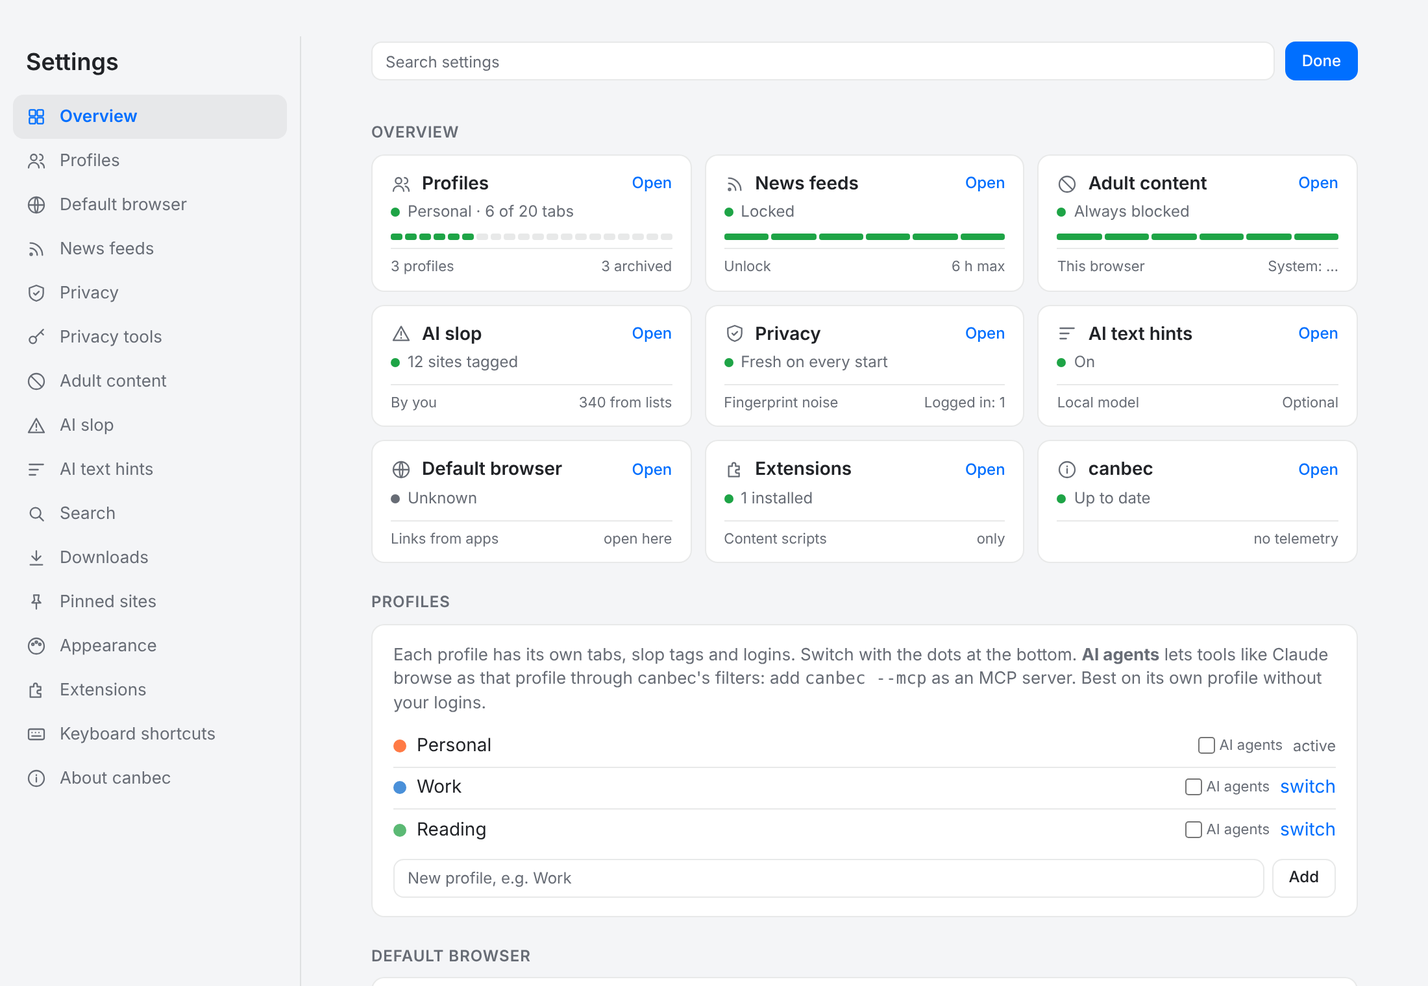
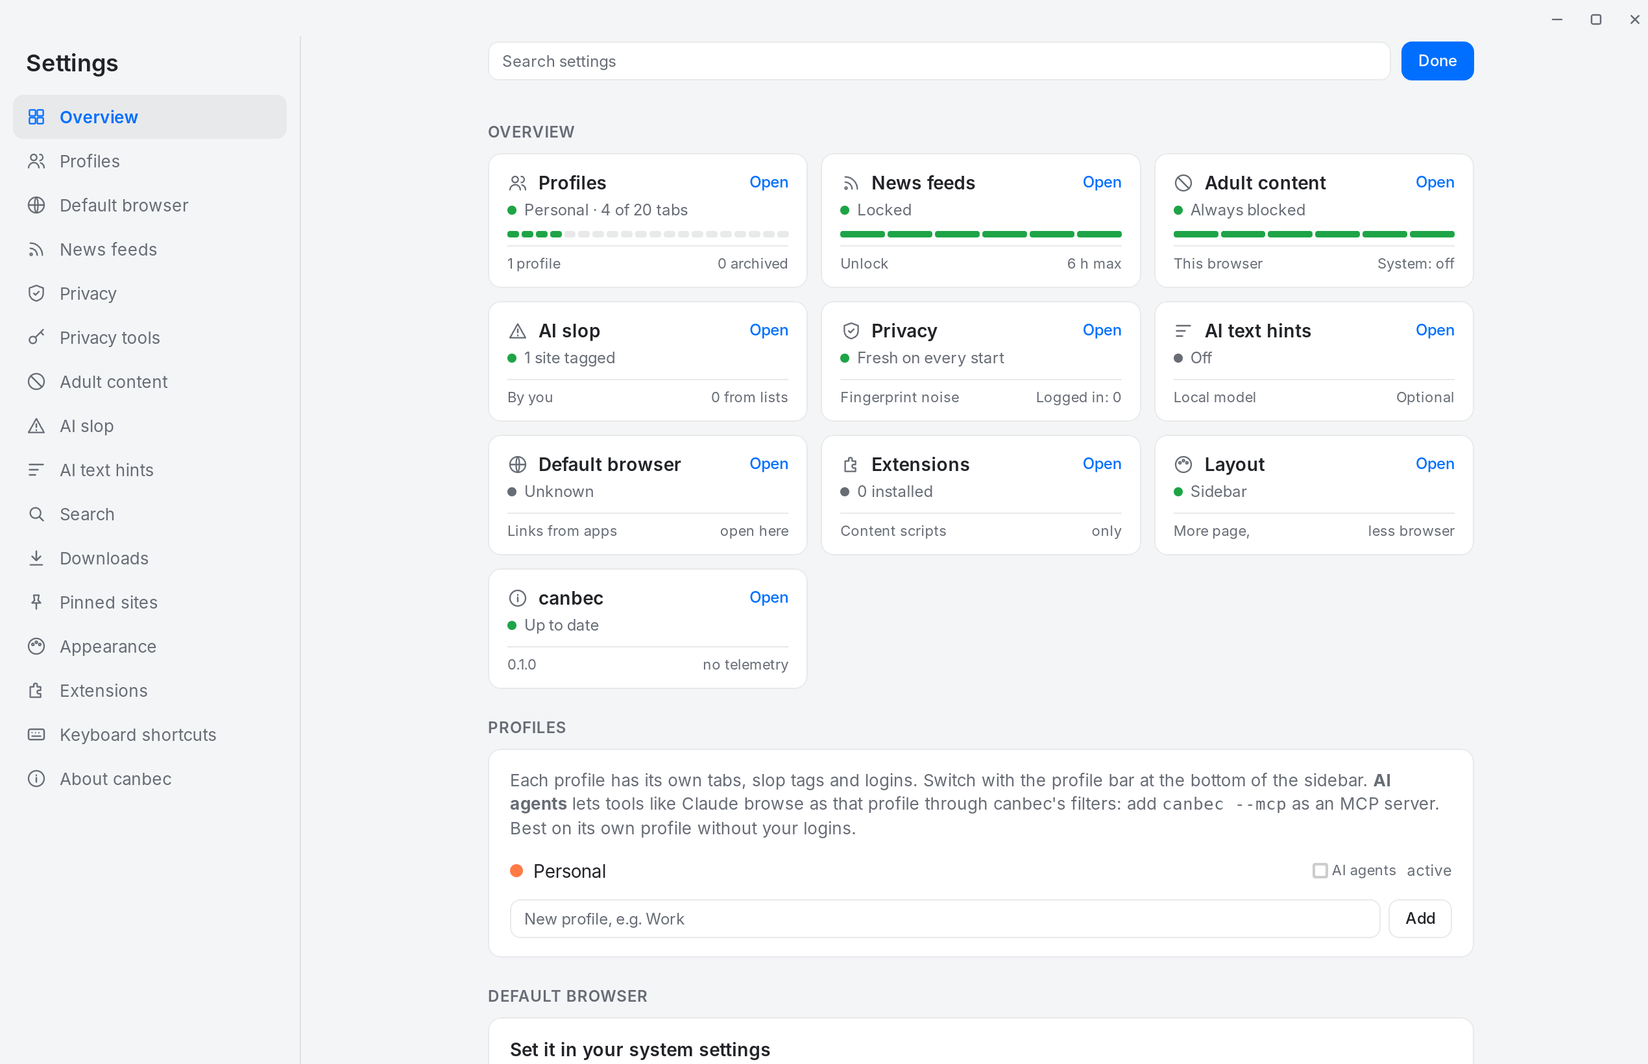
docs: screenshots of the current UI; slop frame in the new red; settings fix in Compact/Rail
- New screenshots from the real app (Linux, 2x) on fictional demo sites:
  browsing, AI slop frame, settings overview, Appearance (layouts + icons),
  the four layouts, dark mode. README and docs index use them.
- test/fixtures/demo + tools/demo_server.py to retake them.
- The slop frame, banner and search badges in pages use the new red and
  greys instead of the old orange and cream.
- Fix: in the Compact and Rail layouts the settings page was squeezed to the
  sidebar's width; those layout rules now apply only outside settings.

Claude-Session: https://claude.ai/code/session_0127fYf2fGiif658MHn2DTb1

diff --git a/src/ui/sidebar.html b/src/ui/sidebar.html
@@ -172,32 +172,32 @@ body.l-top.peek:not(.settings) #drop{display:block;position:fixed;top:48px;left:
 body.l-top:not(.settings) #more{display:inline-flex}
 body.l-top.peek #more{color:var(--acc);background:var(--hov)}body.l-top.peek #more svg{transform:rotate(180deg)}
 /* Compact: same sidebar, 240 px. */
-body.l-compact{width:240px}
-body.l-compact #ess{grid-template-columns:repeat(3,1fr)}
-body.l-compact .wd span{display:none}
-body.l-compact .wd{flex:0 0 28px;padding:0}
-body.l-compact .stat{padding:0 4px}
+body.l-compact:not(.settings){width:240px}
+body.l-compact:not(.settings) #ess{grid-template-columns:repeat(3,1fr)}
+body.l-compact:not(.settings) .wd span{display:none}
+body.l-compact:not(.settings) .wd{flex:0 0 28px;padding:0}
+body.l-compact:not(.settings) .stat{padding:0 4px}
 /* Rail: 64 px of icons. Search / Cmd+L / Cmd+F "peek" back to the full sidebar. */
-body.l-rail:not(.peek){width:64px}
-body.l-rail:not(.peek) #nav{flex-direction:column;align-items:center;padding:0 0 8px;gap:2px}
-body.l-rail:not(.peek) #nav .sp{display:none}
-body.l-rail:not(.peek) #srch{display:inline-flex}
-body.l-rail:not(.peek) :is(#chips,#bar,#findbar,#site,#tabhead,#meter,#hint,#arch,#clo){display:none}
-body.l-rail:not(.peek) #ess{grid-template-columns:1fr;padding:0 12px 8px;gap:6px}
-body.l-rail:not(.peek) .ess{height:40px;padding:0}
-body.l-rail:not(.peek) .ess span{display:none}
-body.l-rail:not(.peek) #main{padding:4px 10px;border-top:1px solid var(--line)}
-body.l-rail:not(.peek) .tab{justify-content:center;padding:0;height:40px}
-body.l-rail:not(.peek) .tab .dot{width:26px;height:26px;font-size:12px;border-radius:7px}
-body.l-rail:not(.peek) .tab .t{position:absolute;inset:0;font-size:0;color:transparent}
-body.l-rail:not(.peek) .tab :is(.x,.warn){display:none}
-body.l-rail:not(.peek) .row{justify-content:center;padding:0}
-body.l-rail:not(.peek) .row span{display:none}
-body.l-rail:not(.peek) #foot{flex-direction:column;padding:8px 0 10px}
-body.l-rail:not(.peek) #wsd{flex-direction:column;flex:none;width:36px}
-body.l-rail:not(.peek) .wd{flex:none;height:26px;padding:0}
-body.l-rail:not(.peek) .wd span{display:none}
-body.l-rail:not(.peek) #top.winctl{flex-direction:column;align-items:center;height:auto;padding:4px 0}
+body.l-rail:not(.peek):not(.settings){width:64px}
+body.l-rail:not(.peek):not(.settings) #nav{flex-direction:column;align-items:center;padding:0 0 8px;gap:2px}
+body.l-rail:not(.peek):not(.settings) #nav .sp{display:none}
+body.l-rail:not(.peek):not(.settings) #srch{display:inline-flex}
+body.l-rail:not(.peek):not(.settings) :is(#chips,#bar,#findbar,#site,#tabhead,#meter,#hint,#arch,#clo){display:none}
+body.l-rail:not(.peek):not(.settings) #ess{grid-template-columns:1fr;padding:0 12px 8px;gap:6px}
+body.l-rail:not(.peek):not(.settings) .ess{height:40px;padding:0}
+body.l-rail:not(.peek):not(.settings) .ess span{display:none}
+body.l-rail:not(.peek):not(.settings) #main{padding:4px 10px;border-top:1px solid var(--line)}
+body.l-rail:not(.peek):not(.settings) .tab{justify-content:center;padding:0;height:40px}
+body.l-rail:not(.peek):not(.settings) .tab .dot{width:26px;height:26px;font-size:12px;border-radius:7px}
+body.l-rail:not(.peek):not(.settings) .tab .t{position:absolute;inset:0;font-size:0;color:transparent}
+body.l-rail:not(.peek):not(.settings) .tab :is(.x,.warn){display:none}
+body.l-rail:not(.peek):not(.settings) .row{justify-content:center;padding:0}
+body.l-rail:not(.peek):not(.settings) .row span{display:none}
+body.l-rail:not(.peek):not(.settings) #foot{flex-direction:column;padding:8px 0 10px}
+body.l-rail:not(.peek):not(.settings) #wsd{flex-direction:column;flex:none;width:36px}
+body.l-rail:not(.peek):not(.settings) .wd{flex:none;height:26px;padding:0}
+body.l-rail:not(.peek):not(.settings) .wd span{display:none}
+body.l-rail:not(.peek):not(.settings) #top.winctl{flex-direction:column;align-items:center;height:auto;padding:4px 0}
 /* Top bar: one 48 px strip; the website card starts under it and gets the full width. */
 body.l-top:not(.settings){width:100%;height:48px;flex-direction:row;align-items:center;gap:6px;padding:0 8px}
 body.l-top:not(.settings) #top{position:absolute;inset:0 0 auto 0;height:48px;z-index:0;padding-top:0;align-items:center}

diff --git a/test/fixtures/demo/journal.html b/test/fixtures/demo/journal.html
@@ -1,0 +1,28 @@
+<!doctype html><html lang="en"><meta charset="utf-8"><title>Why I keep a paper notebook next to my keyboard</title>
+<style>
+body{margin:0;font:18px/1.65 Georgia,"Times New Roman",serif;color:#26231f;background:#fffdf8}
+header{display:flex;align-items:center;gap:18px;padding:16px 40px;border-bottom:1px solid #e7e2d8;font-family:system-ui,sans-serif}
+header b{font:700 22px Georgia,serif;letter-spacing:-.01em}header nav{display:flex;gap:18px;font-size:14px;color:#6d665b;margin-left:auto}
+.wrap{display:grid;grid-template-columns:minmax(0,1fr) 300px;gap:48px;max-width:1080px;margin:0 auto;padding:36px 40px}
+h1{font-size:40px;line-height:1.15;margin:0 0 10px;letter-spacing:-.01em}.by{font:14px system-ui,sans-serif;color:#6d665b;margin-bottom:26px}
+.hero{height:250px;border-radius:6px;background:linear-gradient(160deg,#d9cdb8 0%,#b8a68a 55%,#8a7a62 100%);margin-bottom:26px;position:relative}
+.hero::after{content:"";position:absolute;left:12%;top:22%;width:46%;height:56%;background:#f7f2e8;border-radius:3px;box-shadow:0 8px 24px rgba(0,0,0,.18);transform:rotate(-4deg)}
+p{margin:0 0 18px}aside{font-family:system-ui,sans-serif;font-size:14px}
+.ad-banner,.advertisement{height:250px;border-radius:6px;display:grid;place-items:center;font:700 26px system-ui;color:#fff;background:linear-gradient(135deg,#ff3d6e,#ffb300);margin-bottom:22px}
+.card{border:1px solid #e7e2d8;border-radius:6px;padding:14px 16px;margin-bottom:16px}.card b{display:block;font:600 15px Georgia,serif;margin-bottom:4px}
+</style>
+<header><b>The Slow Web Journal</b><nav><span>Essays</span><span>Tools</span><span>Letters</span><span>About</span></nav></header>
+<div class="wrap"><main>
+<h1>Why I keep a paper notebook next to my keyboard</h1>
+<div class="by">Essay · 7 min read · Written by a person, on a Sunday</div>
+<div class="hero"></div>
+<p>Every tab I open is a small promise to come back. Most of those promises are broken by lunch. The notebook is where I write the one thing I actually came to do, before the browser has a chance to suggest twelve others.</p>
+<p>It started as an experiment: one week, one page a day, nothing digital allowed on it. By Wednesday I noticed that the list on paper was shorter than the list in my head, and that I finished it.</p>
+<div class="ad-banner">MEGA SALE · 70% OFF · CLICK NOW</div>
+<p>Paper is slow on purpose. You cannot paste into it, it has no feed, and it never asks whether you are sure you want to leave. That friction is the whole point.</p>
+</main><aside>
+<div class="advertisement">Ad · Try it free</div>
+<div class="card"><b>The two-tab rule</b>One tab for the task, one for the reference. Everything else waits.</div>
+<div class="card"><b>Letters from readers</b>"I closed 41 tabs and nothing bad happened."</div>
+<div class="card"><b>Tools I still use</b>A pencil, a timer, and a browser that says no.</div>
+</aside></div></html>

diff --git a/src/infrastructure/src/scripts/content.js b/src/infrastructure/src/scripts/content.js
@@ -46,9 +46,9 @@
     html.canbec-feeds-locked :is(${feedSelectors.join(",") || "#canbec-none"}) { display: none !important; }
     img.canbec-ai { filter: blur(24px) saturate(.6) !important; clip-path: inset(0) !important; cursor: pointer !important; }
     #canbec-slop { position: fixed; inset: 0; z-index: 2147483647; pointer-events: none;
-      box-shadow: inset 0 0 0 6px #ff7a45, inset 0 0 0 8px #1f2328, inset 0 0 40px rgba(255,122,69,.35); }
+      box-shadow: inset 0 0 0 6px #e5484d, inset 0 0 0 8px #131417, inset 0 0 40px rgba(229,72,77,.32); }
     #canbec-slop-banner { position: fixed; top: 10px; left: 50%; transform: translateX(-50%); z-index: 2147483647;
-      background: #1f2328; color: #f6f1e7; font: 600 13px system-ui, sans-serif; padding: 6px 12px; border-radius: 999px;
+      background: #212327; color: #fff; font: 600 13px system-ui, sans-serif; padding: 6px 12px; border-radius: 999px;
       box-shadow: 0 2px 10px rgba(0,0,0,.25); cursor: pointer; }`;
 
   // Captured before any page script runs, so a page can't wrap it to steal the shortcut token
@@ -253,8 +253,8 @@
     b.className = "canbec-age";
     const tags = [];
     if (info.slop) tags.push(["⚠ slop", "You marked this site as AI slop", "#d93025", "#fff"]);
-    if (info.year && info.obsolete) tags.push(["AI era · " + info.year, "First seen on the web in " + info.year + ", after ChatGPT came out", "#ff7a45", "#fff"]);
-    else if (info.year) tags.push(["since " + info.year, "On the web since " + info.year + ", before the AI boom", "#e8e1d3", "#1f2328"]);
+    if (info.year && info.obsolete) tags.push(["AI era · " + info.year, "First seen on the web in " + info.year + ", after ChatGPT came out", "#e5484d", "#fff"]);
+    else if (info.year) tags.push(["since " + info.year, "On the web since " + info.year + ", before the AI boom", "#eef0f3", "#212327"]);
     else if (info.year === null) tags.push(["not archived", "The Wayback Machine has never seen this page", "#e8e1d3", "#6b6f76"]);
     for (const [text, title, bg, fg] of tags) {
       const t = Object.assign(document.createElement("span"), { textContent: text, title });

diff --git a/test/fixtures/demo/aiboost.html b/test/fixtures/demo/aiboost.html
@@ -1,0 +1,3 @@
+<!doctype html><html lang="en"><meta charset="utf-8"><title>10 AI productivity hacks that will change your life in 2026</title>
+<style>body{margin:0;font:17px/1.6 system-ui,sans-serif;color:#222;background:#fff}header{padding:14px 40px;border-bottom:1px solid #eee;font-weight:800;font-size:22px;color:#7c3aed}main{max-width:760px;margin:0 auto;padding:30px 40px}h1{font-size:34px;line-height:1.2;margin:0 0 12px}.ph{height:200px;border-radius:12px;background:linear-gradient(135deg,#a78bfa,#f472b6);margin:18px 0}li{margin:6px 0}</style>
+<header>AIBoost Daily</header><main><h1>10 AI productivity hacks that will change your life in 2026</h1><div class="ph"></div><p>In today's fast-paced digital landscape, unlocking your full potential has never been more important. Let's delve into the transformative power of AI.</p><ol><li>Leverage synergy to supercharge your workflow</li><li>Embrace the journey of continuous optimization</li><li>Harness cutting-edge tools to elevate your mindset</li></ol></main></html>

diff --git a/test/fixtures/demo/fieldkit.html b/test/fixtures/demo/fieldkit.html
@@ -1,0 +1,5 @@
+<!doctype html><html lang="en"><meta charset="utf-8"><title>Getting started · Fieldkit docs</title>
+<style>body{margin:0;font:15px/1.6 system-ui,sans-serif;color:#1d1f22;display:grid;grid-template-columns:230px 1fr;min-height:100vh}nav{background:#f6f7f9;border-right:1px solid #e3e5e8;padding:18px 14px}nav b{display:block;margin-bottom:12px}nav div{padding:5px 8px;border-radius:5px;color:#444}nav .on{background:#e3ebff;color:#0b4fd6;font-weight:600}main{padding:28px 36px;max-width:720px}pre{background:#f3f4f6;padding:12px;border-radius:6px}</style>
+<nav><b>Fieldkit docs</b><div>Introduction</div><div>Install</div><div class="on">Getting started</div><div>Configuration</div><div>Deploying</div><div>FAQ</div></nav>
+<main><h1>Getting started</h1><p>Install the command-line tool, then create a project in an empty folder.</p><pre>fieldkit new my-site
+cd my-site && fieldkit dev</pre><p>Edits to files in <code>src/</code> show up without a reload.</p></main></html>

diff --git a/test/fixtures/demo/garden.html b/test/fixtures/demo/garden.html
@@ -1,0 +1,3 @@
+<!doctype html><html lang="en"><meta charset="utf-8"><title>Allotment diary, week 32</title>
+<style>body{margin:0;font:17px/1.6 system-ui,sans-serif;color:#1f2a1f;background:#f6faf3}header{padding:18px 40px;background:#2f5d3a;color:#fff;font-weight:700;font-size:20px}main{max-width:760px;margin:0 auto;padding:30px 40px}h1{font-size:32px;margin:0 0 12px}.ph{height:220px;border-radius:10px;background:linear-gradient(135deg,#9ccc65,#558b2f);margin:18px 0}</style>
+<header>Plot 14 · Allotment diary</header><main><h1>Week 32: beans everywhere</h1><p>The runner beans finally climbed past the top of the canes. I picked two kilos on Saturday and gave most of it away.</p><div class="ph"></div><p>Next week: lift the onions, sow winter lettuce, fix the shed door.</p></main></html>

diff --git a/tools/demo_server.py b/tools/demo_server.py
@@ -1,0 +1,28 @@
+"""Serves the fictional demo sites in test/fixtures/demo by host name, for screenshots:
+python3 tools/demo_server.py [port]   (port 80 needs root; point the names at 127.0.0.1 first:
+journal.example garden.example aiboost.example fieldkit.example in /etc/hosts)"""
+import http.server, os, sys
+
+ROOT = os.path.join(os.path.dirname(__file__), "..", "test", "fixtures", "demo")
+SITES = {"journal.example": "journal.html", "garden.example": "garden.html",
+         "aiboost.example": "aiboost.html", "fieldkit.example": "fieldkit.html"}
+
+
+class Handler(http.server.BaseHTTPRequestHandler):
+    def do_GET(self):
+        page = SITES.get(self.headers.get("Host", "").split(":")[0])
+        if not page or self.path.split("?")[0] != "/":
+            self.send_error(404)
+            return
+        body = open(os.path.join(ROOT, page), "rb").read()
+        self.send_response(200)
+        self.send_header("Content-Type", "text/html; charset=utf-8")
+        self.send_header("Content-Length", str(len(body)))
+        self.end_headers()
+        self.wfile.write(body)
+
+    def log_message(self, *args):
+        pass
+
+
+http.server.ThreadingHTTPServer(("127.0.0.1", int(sys.argv[1]) if len(sys.argv) > 1 else 80), Handler).serve_forever()

diff --git a/README.md b/README.md
@@ -44,7 +44,7 @@
   </tr>
 </table>
 
-<img src="docs/img/real-wikipedia.png" alt="canbec screenshot">
+<img src="docs/img/ui-browsing.png" alt="canbec: an essay with two ads turned into grey hatching, three pinned sites, four tabs (one tagged as AI slop) and a status card saying the site is protected">
 
 ## Why I made this
 
@@ -60,7 +60,7 @@ a weak moment.
 1. 🔕 **Hard limits for weak moments.** Infinite feeds are gone. If you really need them, you have
    to go to settings and you get **6 hours max**. Adult content has **no off switch** at all.
 2. ⚠ **Mark AI slop once, get warned forever.** One click on the shield, and the site gets an
-   orange frame on every visit. AI images get a spoiler, and search marks pages first seen after 2023.
+   red frame on every visit. AI images get a spoiler, and search marks pages first seen after 2023.
 3. 🗂 **20 tabs, no hoarding.** Idle tabs move to folders by themselves and disappear after two
    months, but nothing is ever really deleted.
 4. 🪶 **Small and fast.** 4 MB app, opens in 0.3 s and uses about **2.7× less memory than Safari**
@@ -73,12 +73,14 @@ a weak moment.
 
 | | |
 |:-:|:-:|
-| <img src="docs/img/real-youtube-feed-locked.png" width="420" alt="YouTube with the recommendation feed removed"> | <img src="docs/img/real-slop-tagged.png" width="420" alt="A page tagged as AI slop, with an orange frame and banner"> |
+| <img src="docs/img/real-youtube-feed-locked.png" width="420" alt="YouTube with the recommendation feed removed"> | <img src="docs/img/ui-slop.png" width="420" alt="A content-farm page tagged as AI slop, with a red frame and banner"> |
 | 🔕 **No infinite feeds.** The YouTube home feed is just gone (also Reddit, X, Instagram, TikTok, Bluesky, Tumblr and more, plus your own in `feeds.txt`). Unlocking is only in settings, **6 hours max**. | ⚠ **What you tag stays tagged.** One click on the shield, and the site has an orange frame on every visit. Share your list or follow others. Images whose metadata says "AI-generated" stay blurred until you click. |
 | <img src="docs/img/canbec-probe.png" width="420" alt="Engine probe page with an ad covered by grey hatching"> | <img src="docs/img/real-hn.png" width="420" alt="Hacker News in canbec"> |
 | 🚫 **Ads become grey hatching.** About 24k EasyList rules, updated every week. The layout stays the same, the ad just doesn't get your attention. | 🧘 **Calm by default.** Vertical tabs, max 20 open, idle tabs move to folders by themselves. |
-| <img src="docs/img/ads-easylist.png" width="420" alt="A test page where three ads became blurred grey stripes"> | <img src="docs/img/ui-settings.png" width="160" alt="The settings panel: feed lock with a 10 second wait, privacy, privacy tools, adult content, pinned sites, app icon"> |
-| 🧪 **Even late ads get covered**, also the ones a page adds after it loaded. | ⚙ **Full-window settings** with search. Feeds unlock only after a 10 s wait, privacy tools like 10 Minute Mail, pinned sites, app icon. |
+| <img src="docs/img/ads-easylist.png" width="420" alt="A test page where three ads became blurred grey stripes"> | <img src="docs/img/ui-settings.png" width="420" alt="Full-window settings: an overview of status tiles for profiles, feeds, adult content, AI slop, privacy and more"> |
+| 🧪 **Even late ads get covered**, also the ones a page adds after it loaded. | ⚙ **Full-window settings** with an overview of everything at a glance, and search. Feeds unlock only after a 10 s wait. |
+| <img src="docs/img/ui-layouts.png" width="420" alt="The four layouts: sidebar, compact, icon rail, and a slim top bar with its drop-down panel"> | <img src="docs/img/ui-dark.png" width="420" alt="canbec in dark mode"> |
+| 🪟 **As much browser as you want.** Sidebar, Compact, an icon Rail that opens when you type, or one slim Top bar with a ▾ panel. Settings → Appearance. | 🌙 **Light and dark**, following your system. Or write your own colours in `theme.css`. |
 
 And under the hood:
 - ⌨ **Normal browser stuff works:** Cmd/Ctrl+T, W, L, R, D (pin), F (find), +/-/0 (zoom, kept per site), `[` `]` (back/forward per tab),
@@ -177,6 +179,7 @@ timeline
 | 45 | **Camera / microphone on Linux**: a prompt in the sidebar (Allow / Block), never saved; before, Linux always refused | ✅ | [13](docs/research/13-linux-hand-test.md) |
 | 46 | Two starts at the same instant make one canbec (OS file lock, freed on crash; the loser hands its link over); ad rules `~site#@#sel` (allowed everywhere but there) now apply | ✅ | |
 | 47 | The 90 MB AI text model download continues where it stopped (HTTP ranges, `.part` files) and streams to disk instead of memory | ✅ | [#25](https://github.com/Cod3rs-org/canbec/issues/25) |
+| 48 | **New icons and screenshots**: all seven app icons redrawn in the new look (same names, sprout still default); screenshots of the current UI, layouts and dark mode; fixed settings squeezed into the sidebar in the Compact and Rail layouts | ✅ | [12](docs/research/12-unifi-look.md) |
 
 📚 **All docs:** [docs/README.md](docs/README.md) · 🗺 **What's next:** [ROADMAP](docs/ROADMAP.md) / [issues](https://github.com/Cod3rs-org/canbec/issues)
 
@@ -231,7 +234,7 @@ pure-Rust option, and Chromium (CEF) or others can be plugged in later.
 |---|---|---|
 | 🧱 **Engine** | Real web apps (WASM, WebGL, Canvas) on 3 OSes, pluggable engines | `▓▓▓▓▓▓▓░░░` wry works; Servo adapter runs headless |
 | 🗂 **Tab discipline** | At most 20 open, auto-archive into folders, soft delete after 2 months | `▓▓▓▓▓▓▓▓░░` works, recently closed tabs |
-| ⚠ **Slop tagging** | One click, orange frame on every next visit | `▓▓▓▓▓▓▓▓░░` works, shared lists |
+| ⚠ **Slop tagging** | One click, red frame on every next visit | `▓▓▓▓▓▓▓▓░░` works, shared lists |
 | 🔕 **Feed blocker** | Feeds hidden, unlock only in settings, max 6 h | `▓▓▓▓▓▓▓▓░░` works, 10 s wait, own site list |
 | 🚫 **No ads** | Ads blurred + grey hatching | `▓▓▓▓▓▓▓░░░` EasyList cosmetic rules, updated weekly |
 | 🔞 **Adult lock** | Every navigation checked + system DNS lock | `▓▓▓▓▓▓▓▓░░` browser + family DNS |
@@ -315,9 +318,13 @@ docs/               research, decisions, screenshots, logos
 ## 🎨 Icons
 
 **Default is `sprout`**, a mouse pointer with a sprout growing out of it, because you are taking your
-life back from the screen. All seven come with the app, you pick one in the `icon` file (see [Try it](#-try-it)).
+life back from the screen. All seven come with the app: pick one in Settings → Appearance, or write its
+name into the `icon` file (see [Try it](#-try-it)). They share one look: a white sign on the blue of the
+interface, with green for the human part.
 
 | <img src="docs/img/logos/05-sprout-cursor.svg" width="72"> | <img src="docs/img/logo.svg" width="72"> | <img src="docs/img/logos/01-fingerprint.svg" width="72"> | <img src="docs/img/logos/02-not-a-parrot.svg" width="72"> | <img src="docs/img/logos/03-broken-link.svg" width="72"> | <img src="docs/img/logos/04-spoiler.svg" width="72"> | <img src="docs/img/logos/06-calm-eye.svg" width="72"> |
 |:-:|:-:|:-:|:-:|:-:|:-:|:-:|
 | **`sprout`** ⭐ | `strings` | `fingerprint` | `parrot` | `broken-link` | `spoiler` | `calm-eye` |
-| growing back online | cut puppet strings | human uniqueness | not a parrot | break the scroll | AI hidden | calm, protected |
+| your life growing back | strings cut, a free person | your own fingerprint, a C | your own words, not repeated | the scroll habit, cut | AI hidden under hatching | a calm eye on the human web |
+
+<img src="docs/img/ui-appearance.png" width="560" alt="Settings, Appearance: the four layouts and the seven app icons to pick from">

diff --git a/docs/research/12-unifi-look.md b/docs/research/12-unifi-look.md
@@ -58,3 +58,20 @@ runs again on every size change. Checked in the real app under Xvfb, sidebar and
 
 ponytail: one-pixel rows, not anti-aliased (same as Windows). Wayland isn't covered: there wry
 uses a GtkFixed without a container window; shaping the widget should be enough, not tested.
+
+## Icons and screenshots
+
+The seven app icons were dark tiles with cream and orange, from the first look. They are redrawn
+in the new one: a white sign on the interface's blue, green only for the human part (the sprout,
+the person, the check, the iris). Same names and ideas, so an `icon` file keeps working; `sprout`
+is still the default. Each Windows `.ico` size (16 to 256 px) is rendered from the SVG, so the
+small ones stay sharp.
+
+Screenshots come from the real app on Linux at 2x, on fictional demo sites
+(`test/fixtures/demo`, served by host name with `tools/demo_server.py`; point
+`journal.example garden.example aiboost.example fieldkit.example` at 127.0.0.1 first). Taking
+them found a bug: in the Compact and Rail layouts the settings page was squeezed to the sidebar's
+width, because those layouts' width rules outranked it. They now apply only outside settings.
+
+Still to retake on a machine with internet: the shots of real sites (Wikipedia, Hacker News,
+YouTube) in `docs/img/real-*.png` show the first look.

diff --git a/docs/README.md b/docs/README.md
@@ -39,6 +39,7 @@ Everything we've learned and decided, in reading order. These files are the sour
 |:-:|:-:|
 | ![Wikipedia](img/real-wikipedia.png) Reading Wikipedia | ![YouTube](img/real-youtube-feed-locked.png) YouTube with the feed locked |
 | ![Slop](img/real-slop-tagged.png) A site you tagged as AI slop | ![Probe](img/canbec-probe.png) Engine probe: Blazor WASM + ad hatching |
+| ![Browsing](img/ui-browsing.png) The current look | ![Layouts](img/ui-layouts.png) Sidebar, Compact, Rail, Top bar |
 | ![Settings](img/settings-overview.png) Settings overview | ![Servo](img/servo-window.png) The same UI on Servo (`--window`) |
 
 ## Brand
